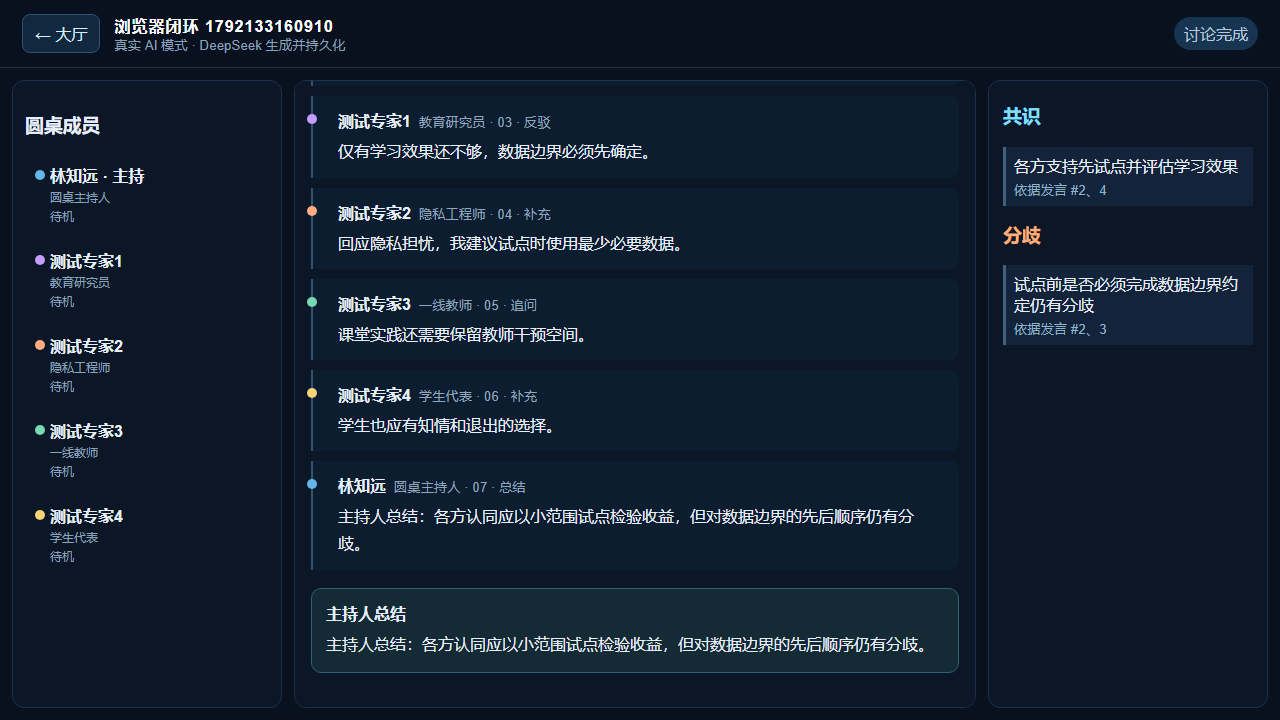
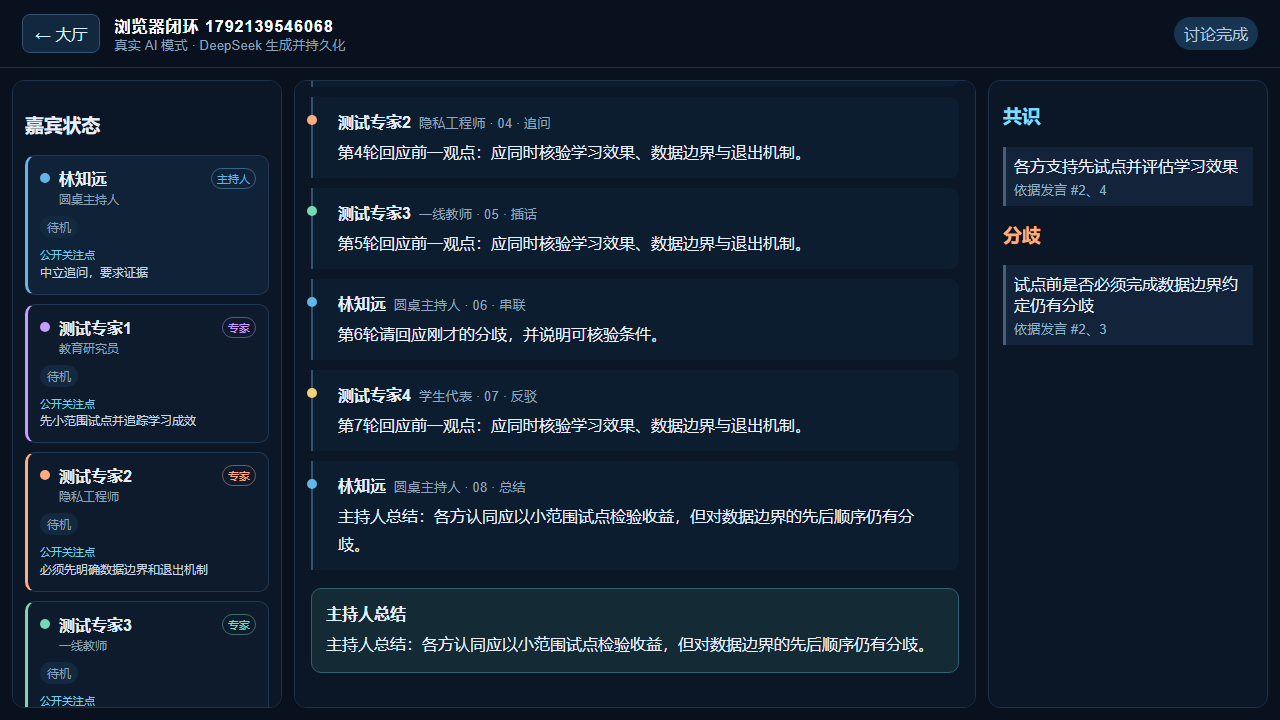
feat: verify live rejoin and expert status cards

diff --git a/frontend/e2e/discussion.spec.ts b/frontend/e2e/discussion.spec.ts
@@ -30,6 +30,10 @@ test("real browser completes create, roster, SSE discussion, insights, summary a
   expect((await (await page.request.post(`/api/v1/discussions/${id}/confirm`)).json()).status).toBe("confirmed");
   expect(await (await page.request.get(`/api/v1/discussions/${id}/participants`)).json()).toHaveLength(5);
   await page.getByRole("button", { name: "开始真实讨论" }).click();
+  await expect(page.locator(".participant-card")).toHaveCount(5);
+  await expect(page.locator(".participant-focus").first()).toContainText("公开关注点");
+  await expect(page.locator('.participant-card[data-status="hand_raised"]')).toBeVisible({ timeout: 20_000 });
+  await expect(page.locator('.participant-card[data-status="preparing"]')).toBeVisible({ timeout: 20_000 });
   await expect(page.locator(".participants article.speaking")).toBeVisible();
   await expect(page.locator(".transcript article").first()).toContainText("围绕");
   await expect(page.locator(".insights .active")).toHaveCount(2, { timeout: 30_000 });
@@ -52,6 +56,27 @@ test("real browser completes create, roster, SSE discussion, insights, summary a
   await expect(page.locator(".pill")).toHaveText("讨论完成");
   await expect(page.locator(".transcript article")).toHaveCount(messages.length);
   await expect(page.locator(".transcript footer")).toContainText("主持人总结");
+});
+
+test("rejoining a running full-budget discussion restores history and resumes SSE without duplicates", async ({ page }) => {
+  test.setTimeout(55_000);
+  const topic = `完整预算运行中重入 ${Date.now()}`;
+  const id = await create(page, topic);
+  await page.getByRole("button", { name: "确认阵容，进入演播厅" }).click();
+  await page.getByRole("button", { name: "开始真实讨论" }).click();
+  await expect(page.locator(".transcript article")).toHaveCount(3, { timeout: 20_000 });
+  await page.reload();
+  await page.getByRole("button", { name: new RegExp(topic) }).click();
+  await expect(page.locator(".pill")).toHaveText("讨论进行中");
+  expect(await page.locator(".transcript article").count()).toBeGreaterThanOrEqual(3);
+  await expect(page.locator(".pill")).toHaveText("讨论完成", { timeout: 35_000 });
+  await expect(page.locator(".transcript article")).toHaveCount(18);
+  const messages = await (await page.request.get(`/api/v1/discussions/${id}/transcript`)).json();
+  expect(messages).toHaveLength(18);
+  expect(new Set(messages.map((message: { id: number }) => message.id)).size).toBe(18);
+  expect(messages.map((message: { sequence: number }) => message.sequence)).toEqual(Array.from({ length: 18 }, (_, index) => index + 1));
+  const insightEvents = (await (await page.request.get(`/api/v1/discussions/${id}/events`)).text()).match(/event: insights.updated/g) ?? [];
+  expect(insightEvents.length).toBeGreaterThanOrEqual(4);
 });
 
 test("stopping one discussion does not affect another and both persist", async ({ page }) => {
@@ -91,7 +116,7 @@ test("new transcript follows live messages but preserves the reader's history po
   await expect(transcript.locator("article")).toHaveCount(4, { timeout: 20_000 });
   await expect.poll(() => transcript.evaluate(el => el.scrollTop)).toBeGreaterThan(0);
   await transcript.evaluate(el => { el.style.scrollBehavior = "auto"; el.scrollTop = 0; });
-  await expect(transcript.locator("article")).toHaveCount(6, { timeout: 20_000 });
+  await expect.poll(() => transcript.locator("article").count(), { timeout: 20_000 }).toBeGreaterThan(4);
   expect(await transcript.evaluate(el => el.scrollTop)).toBeLessThan(30);
   await expect(page.locator(".pill")).toHaveText("讨论完成", { timeout: 20_000 });
 });

diff --git a/frontend/src/RealApp.tsx b/frontend/src/RealApp.tsx
@@ -187,11 +187,15 @@ export default function RealApp({ onDemo }: { onDemo: () => void }) {
           : <p className="empty">等待生成嘉宾阵容。{busy ? "正在请求模型…" : "生成失败时可重试。"}</p>}
         {current?.status === "draft" ? <button className="primary" disabled={busy} onClick={() => void generateRoster(current.id)}>生成真实嘉宾阵容</button>
           : <button className="primary" disabled={busy || !people.length} onClick={() => void confirm()}>确认阵容，进入演播厅</button>}</section>
-      : <section className="grid"><aside className="participants"><h3>圆桌成员</h3>{people.map(p => {
-        const state = statuses[p.id]; return <article className={state?.status === "speaking" ? "speaking" : ""} style={{ "--c": p.color } as CSSProperties} key={p.id}>
-          <i/><b>{p.name}{p.role === "host" ? " · 主持" : ""}</b><small>{p.title}</small>
-          <span>{state?.status === "speaking" ? "发言中" : state?.status === "preparing" ? "准备发言" : state?.status === "hand_raised" ? "申请发言" : "待机"}</span>
-          {state?.focus && <small>{state.focus}</small>}</article>; })}</aside>
+      : <section className="grid"><aside className="participants"><h3>嘉宾状态</h3>{people.map(p => {
+        const state = statuses[p.id];
+        const status = state?.status ?? "idle";
+        const label = status === "speaking" ? "发言中" : status === "preparing" ? "准备发言" : status === "hand_raised" ? "申请发言" : "待机";
+        return <article className={`participant-card ${p.role} ${status}`} data-status={status} style={{ "--c": p.color } as CSSProperties} key={p.id}>
+          <div className="participant-head"><i/><div><b>{p.name}</b><small>{p.title}</small></div><em>{p.role === "host" ? "主持人" : "专家"}</em></div>
+          <span className="participant-state">{label}{state?.action ? ` · ${actionText[state.action] ?? state.action}` : ""}</span>
+          <p className="participant-focus"><b>公开关注点</b>{state?.focus ?? p.stance}</p>
+        </article>; })}</aside>
         <section className="transcript" ref={transcriptRef}><div className="controls"><b>实时 Transcript</b>
           {current?.status === "confirmed" && <button disabled={busy} onClick={() => void start()}>开始真实讨论</button>}
           {current?.status === "running" && <button disabled={busy} onClick={() => void stop()}>停止讨论</button>}</div>

diff --git a/frontend/src/real.css b/frontend/src/real.css
@@ -7,6 +7,19 @@
 .studio .empty { padding:12px; }
 .studio>header div { min-width:0; overflow-wrap:anywhere; }
 .studio>header .pill { flex-shrink:0; }
+.participant-card { display:block!important; padding:12px!important; margin:9px 0!important; border:1px solid #203853; border-left:3px solid var(--c); border-radius:10px!important; background:#0d1b2c; transition:background .18s,border-color .18s; }
+.participant-card.host { background:#102237; }
+.participant-head { display:grid; grid-template-columns:12px 1fr auto; gap:7px; align-items:start; }
+.participant-head>i { grid-row:auto!important; background:var(--c); border-radius:50%; width:10px; height:10px; margin-top:5px; }
+.participant-head>div { min-width:0; }
+.participant-head small { display:block; margin-top:2px; }
+.participant-head em { font-size:11px; color:var(--c); font-style:normal; border:1px solid color-mix(in srgb,var(--c),transparent 55%); padding:2px 5px; border-radius:99px; }
+.participant-state { display:inline-block; margin:9px 0 5px; padding:3px 7px; border-radius:99px; background:#132940; }
+.participant-focus { margin:4px 0 0; color:#c5d4e5; font-size:12px; line-height:1.5; }
+.participant-focus>b { display:block; color:#72cfee; font-size:11px; font-weight:500; }
+.participant-card.hand_raised { background:#2b2638; border-color:#b58cff; }
+.participant-card.preparing { background:#182b3e; border-color:#64bce7; }
+.participant-card.speaking { background:#15334a; outline:1px solid var(--c); box-shadow:0 0 18px color-mix(in srgb,var(--c),transparent 82%); }
 @media(max-width:850px){
   .transcript{max-height:52vh}
   .studio>header{display:grid;grid-template-columns:auto 1fr}

diff --git a/frontend/src/RealApp.test.tsx b/frontend/src/RealApp.test.tsx
@@ -79,11 +79,11 @@ it("updates messages, participant state, and insights only from backend events",
   stream.emit("participant.hand_raised", 1, { participant_id: 11 });
   expect(await screen.findByText("申请发言")).toBeTruthy();
   stream.emit("participant.status", 2, { participant_id: 11, status: "speaking", action: "rebut" });
-  expect(await screen.findByText("发言中")).toBeTruthy();
+  expect(await screen.findByText(/^发言中/)).toBeTruthy();
   stream.emit("message.created", 3, { message_id: 42, speaker_id: 11, sequence: 1, content: "针对前一观点，我提出反驳。", action: "rebut" });
   stream.emit("message.created", 3, { message_id: 42, speaker_id: 11, sequence: 1, content: "针对前一观点，我提出反驳。", action: "rebut" });
   expect((await screen.findAllByText("针对前一观点，我提出反驳。")).length).toBe(1);
-  expect(await screen.findByText(/· 反驳$/)).toBeTruthy();
+  expect((await screen.findAllByText(/· 反驳$/)).length).toBe(2);
   insightReady = true;
   stream.emit("insights.updated", 4, { insight_ids: [3] });
   expect(await screen.findByText("已发表的共识")).toBeTruthy();

diff --git a/backend/app/e2e_server.py b/backend/app/e2e_server.py
@@ -33,22 +33,25 @@ class BrowserFakeLLM:
             ids = [int(x) for x in re.findall(r"^(\d+) .+（", user, re.MULTILINE)]
             progress = re.search(r"已公开发言：(\d+)/(\d+)", user)
             uttered, budget = map(int, progress.groups())
-            # Expert 2 responds twice; sequence is not a fixed round robin.
-            index = [0, 2, 1, 2, 3, 4][min(uttered, 5)]
+            # Expert 2 responds twice, every expert participates, and the host re-enters.
+            order = [0, 2, 1, 2, 3, 0, 4, 1, 3, 2, 0, 4, 2, 1, 3, 4, 2]
+            index = order[min(uttered, len(order) - 1)]
             if index >= len(ids):
                 index = 1
             await asyncio.sleep(0.15)
-            lines = [
-                ("open", f"围绕{topic}，请先谈可验证的收益和风险。"),
-                ("answer", "我同意先试点，但必须公开评估学习效果。"),
-                ("rebut", "仅有学习效果还不够，数据边界必须先确定。"),
-                ("add", "回应隐私担忧，我建议试点时使用最少必要数据。"),
-                ("question", "课堂实践还需要保留教师干预空间。"),
-                ("add", "学生也应有知情和退出的选择。"),
-            ]
-            action, text = lines[min(uttered, 5)]
+            if uttered == 0:
+                action, text = "open", f"围绕{topic}，请先谈可验证的收益和风险。"
+            elif index == 0:
+                action, text = "moderate", f"第{uttered + 1}轮请回应刚才的分歧，并说明可核验条件。"
+            else:
+                actions = ["answer", "rebut", "add", "question", "interrupt"]
+                action = actions[uttered % len(actions)]
+                text = f"第{uttered + 1}轮回应前一观点：应同时核验学习效果、数据边界与退出机制。"
+            full_budget = "完整预算" in topic
+            earliest_finish = 3 if len(ids) == 3 else 6
             return Turn(speaker_id=ids[index], action=action, text=text, focus="核验收益与风险",
-                        hand_raised=uttered == 2, finish=uttered >= min(budget - 2, 3 if len(ids) == 3 else 5))
+                        hand_raised=action == "interrupt" or uttered == 2,
+                        finish=False if full_budget else uttered >= min(budget - 2, earliest_finish))
         if schema is InsightBatch:
             return InsightBatch(items=[
                 InsightCandidate(kind="consensus", content="各方支持先试点并评估学习效果", evidence_sequences=[2, 4]),
